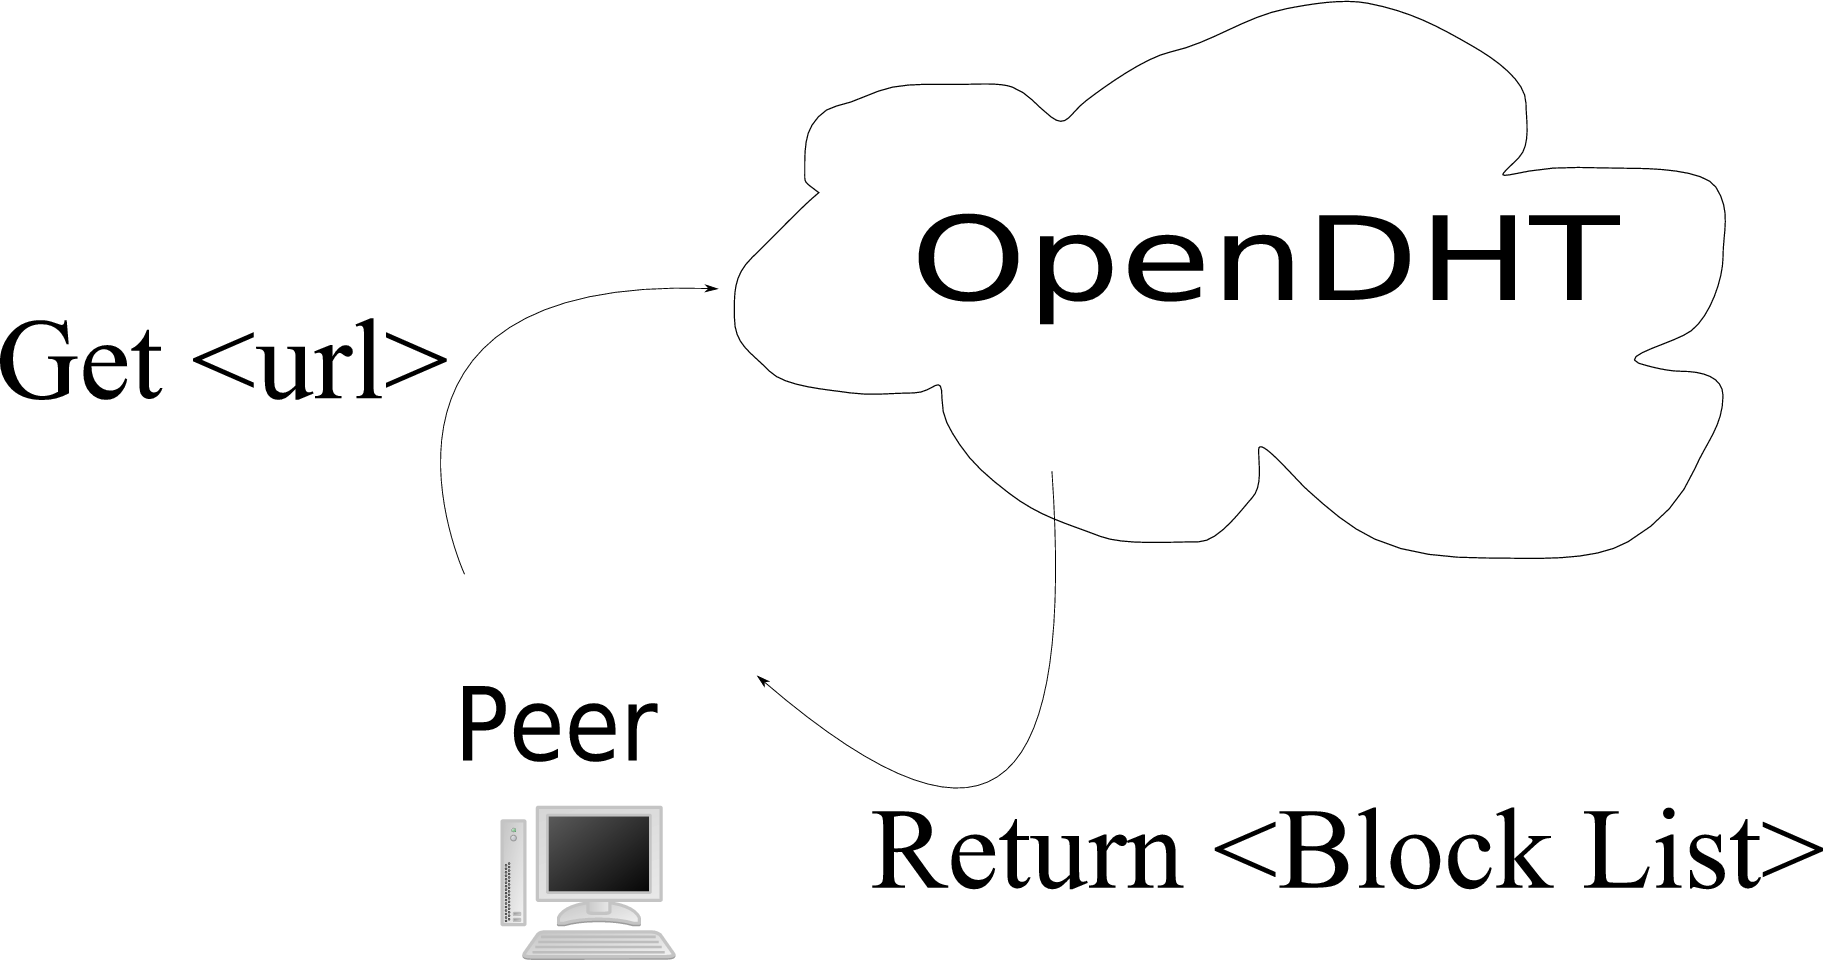
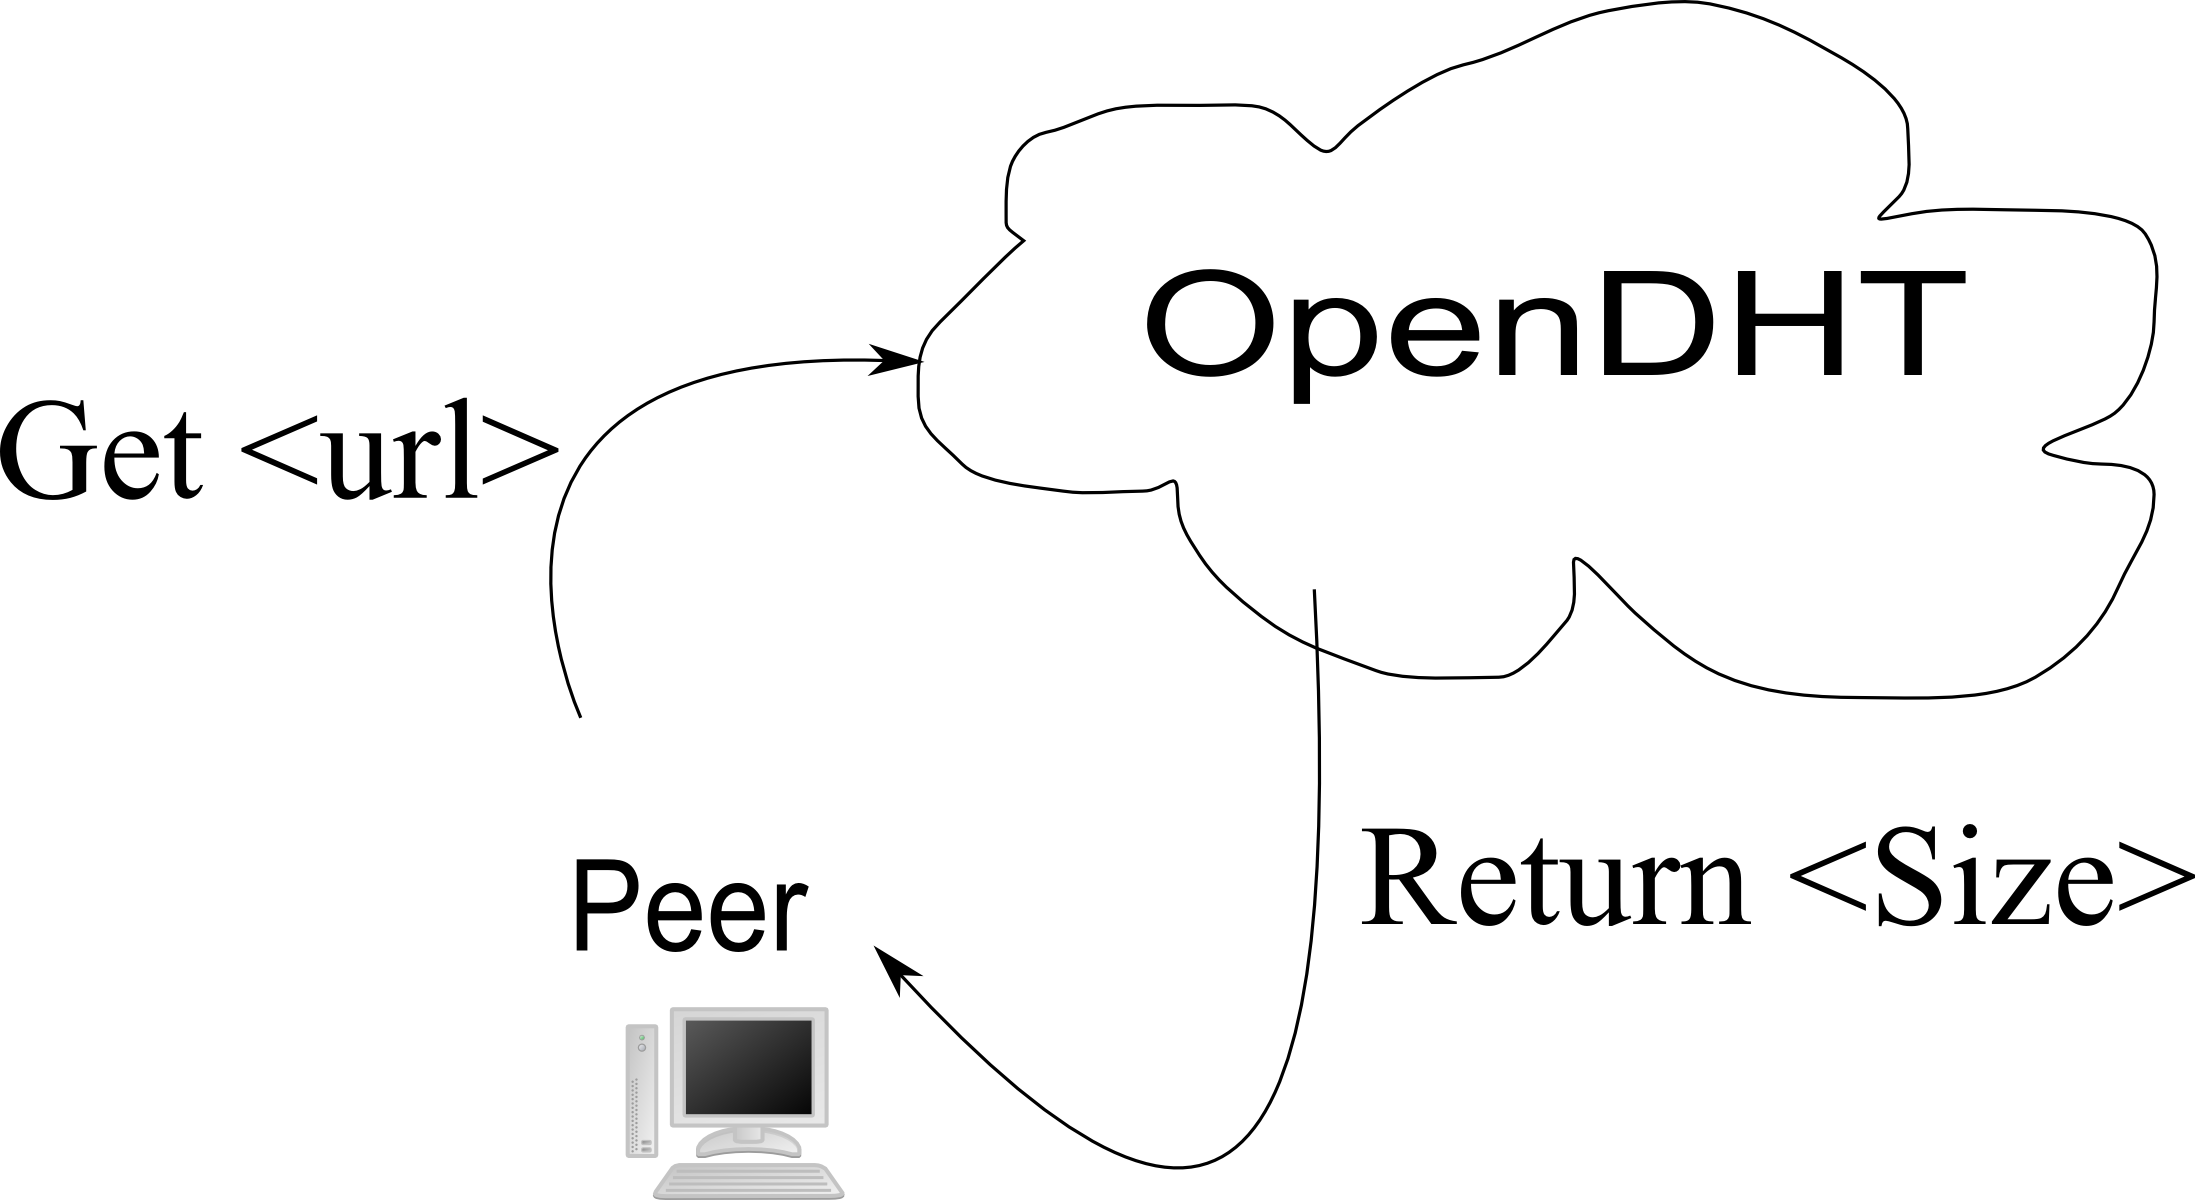
fix pic

diff --git a/final/basic_algorithm.tex b/final/basic_algorithm.tex
@@ -44,7 +44,7 @@ If a peer only has a few blocks remaining, it will try to download the last few 
 encountered by BitTorrent \cite{bram}.  It downloads remaining blocks from up to $b$ peers, so if $b$ is set to 6 and 3 blocks are left, it will download each block from 2 peers, until
 the last block is downloaded redundantly from $b$ peers all at once.
 
-After downloading a block, the peer adds itself to the list of peers willing to share that block (Fig. \ref{fig:download_all_steps}).  
+After downloading a block, the peer adds itself to the list of peers willing to share that block (Fig. \ref{fig:download_all_steps}). 
 
 While downloading a file, if a peer learns the size of the file (via its original HTTP request or its HTTP HEAD request), it does a request to the DHT to see if this
 data is listed.  If it isn't, it adds this meta-data to the DHT for later peers to be able to use.
@@ -56,10 +56,10 @@ It should be noted that we implemented this algorithm using the Ruby language, w
 
 \begin{figure*}
   \begin{center}
-    \subfigure[Peer downloads list of blocks]{\includegraphics[width=7cm]{description_pics/peer_step_1.png}}
-    \subfigure[Peer downloads a list of peers which have a block]{\includegraphics[width=7cm]{description_pics/peer_step_2.png}}
-    \subfigure[Peer adds itself to list of peers who have that block]{\includegraphics[width=7cm]{description_pics/peer_step_3.png}}
-    \caption{Steps to accomplish a peer-to-peer-web download.}
+    \subfigure[Peer downloads meta-data]{\includegraphics[width=7cm]{description_pics/peer_step_1.png}}
+    \subfigure[Peer downloads a list of peers that have a block]{\includegraphics[width=10cm]{description_pics/peer_step_2.png}}
+    \subfigure[Peer adds itself to list of peers who have the block]{\includegraphics[width=8cm]{description_pics/peer_step_3.png}}
+    \caption{Steps to accomplish a peer-to-peer-web download}
     \label{fig:download_all_steps}
   \end{center}
 \end{figure*}
